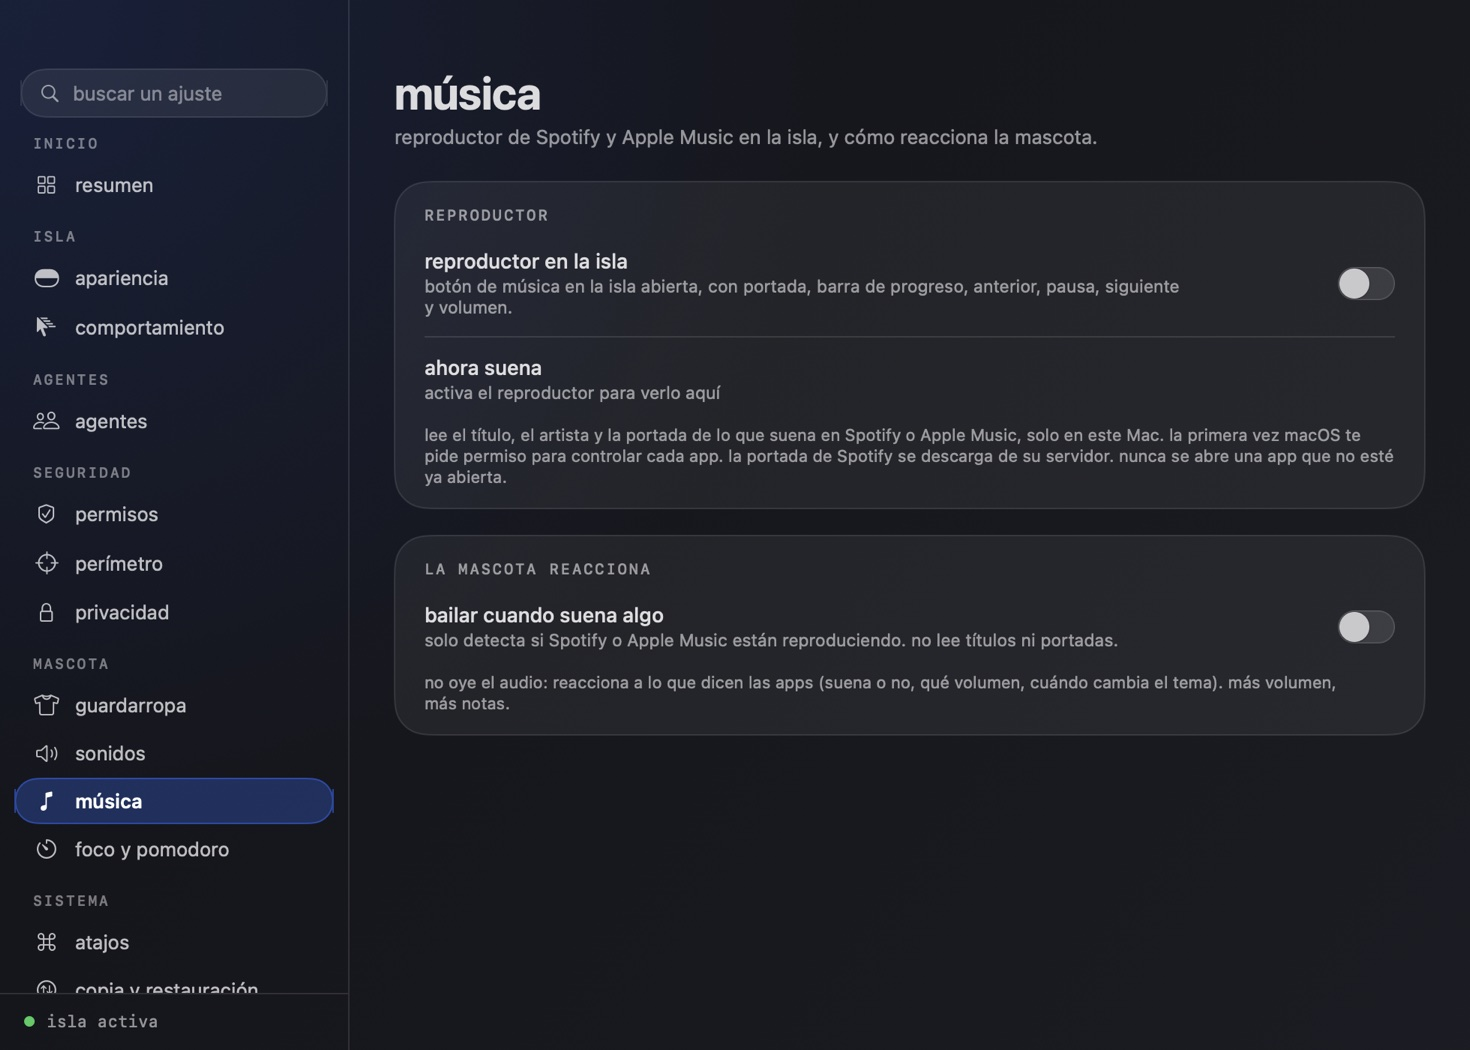
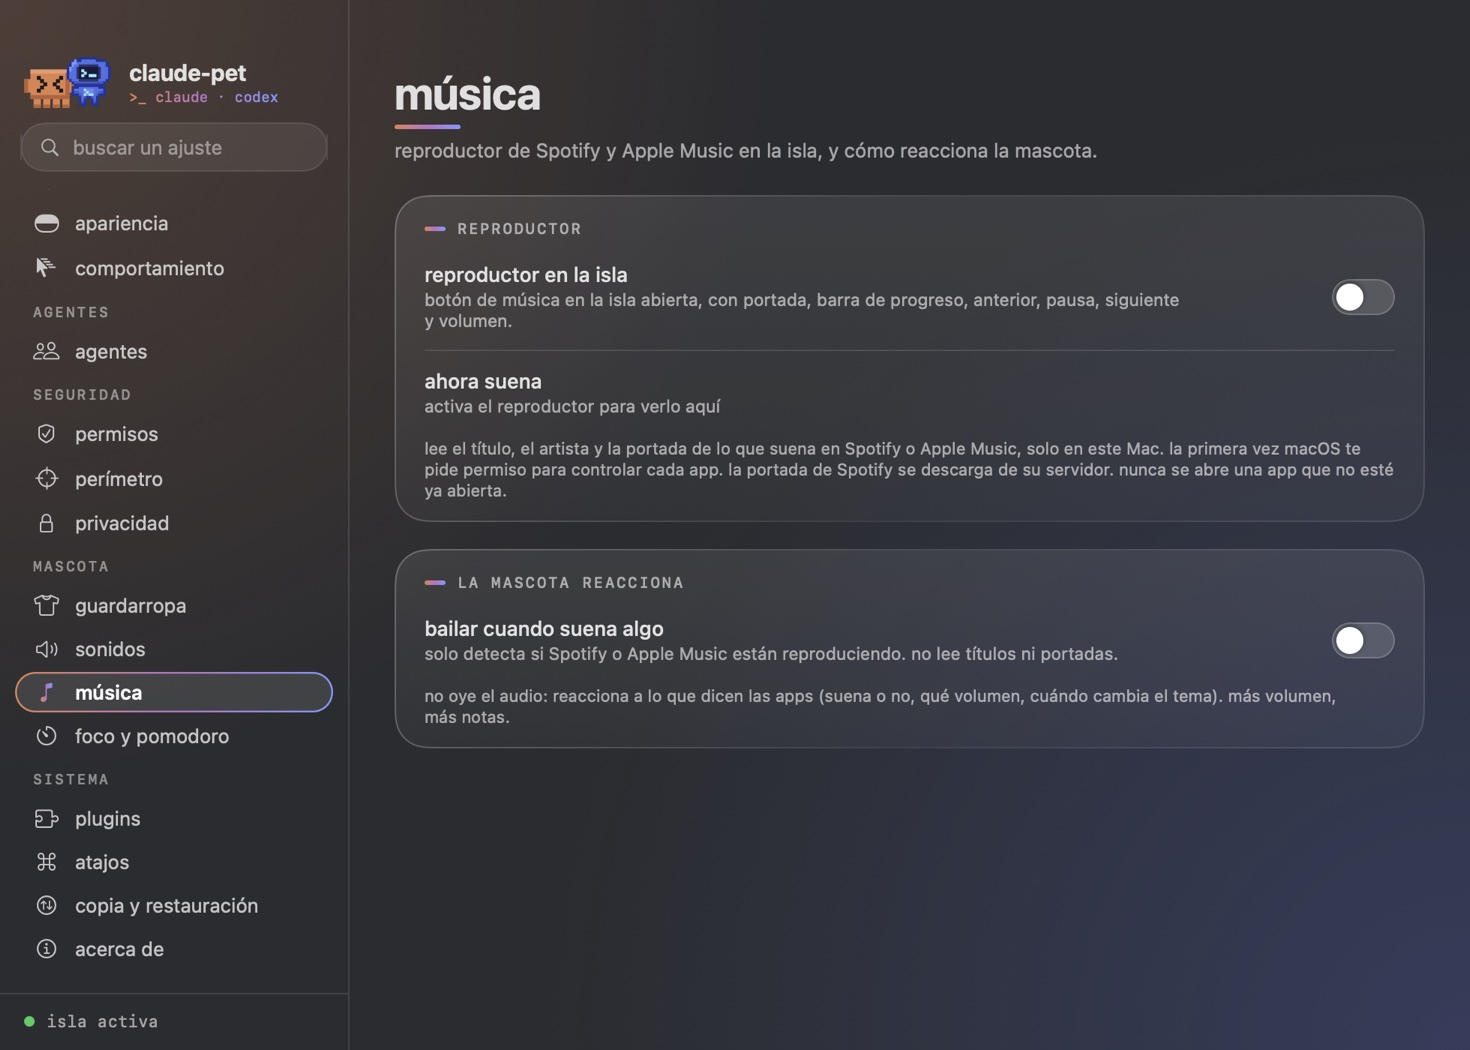
docs: plugins, identidad de ajustes, portadas indexadas y version 2.1.0

diff --git a/Sources/ClaudePet/SettingsView.swift b/Sources/ClaudePet/SettingsView.swift
@@ -64,8 +64,9 @@ struct SettingsView: View {
             .overlay(Capsule().stroke(SettingsTheme.line, lineWidth: 1))
             .padding(.horizontal, 14).padding(.bottom, 12)
 
+            ScrollViewReader { proxy in
             ScrollView {
-                VStack(alignment: .leading, spacing: 14) {
+                VStack(alignment: .leading, spacing: 10) {
                     ForEach(SettingsGroup.allCases) { group in
                         let pages = results.filter { $0.group == group }
                         if !pages.isEmpty {
@@ -82,6 +83,9 @@ struct SettingsView: View {
                     }
                 }
                 .padding(.horizontal, 10).padding(.bottom, 16)
+            }
+            .onAppear { proxy.scrollTo(page, anchor: .center) }
+            .onChange(of: page) { p in withAnimation(.easeOut(duration: 0.2)) { proxy.scrollTo(p, anchor: .center) } }
             }
             statusFooter
         }
@@ -102,7 +106,7 @@ struct SettingsView: View {
             }
             Spacer(minLength: 0)
         }
-        .padding(.horizontal, 16).padding(.top, 40).padding(.bottom, 14)
+        .padding(.horizontal, 16).padding(.top, 38).padding(.bottom, 10)
     }
 
     private func sidebarRow(_ p: SettingsPage) -> some View {
@@ -114,13 +118,14 @@ struct SettingsView: View {
                 Text(p.title).font(.system(size: 13, weight: selected ? .semibold : .regular))
                 Spacer()
             }
-            .padding(.horizontal, 12).padding(.vertical, 7)
+            .padding(.horizontal, 12).padding(.vertical, 5.5)
             .foregroundStyle(selected ? Color.white : Color.white.opacity(0.72))
             .background(Capsule().fill(selected ? Color.white.opacity(0.1) : .clear))
             .overlay(Capsule().strokeBorder(selected ? AnyShapeStyle(SettingsTheme.duoDiagonal) : AnyShapeStyle(Color.clear), lineWidth: 1.2))
             .contentShape(Capsule())
         }
         .buttonStyle(.plain)
+        .id(p)
     }
 
     private var statusFooter: some View {
@@ -179,6 +184,13 @@ enum SettingsSnapshot {
     @MainActor static func render(to directory: String, pages: [SettingsPage] = SettingsPage.allCases) {
         try? FileManager.default.createDirectory(atPath: directory, withIntermediateDirectories: true)
         for page in pages {
+            if page == .plugins, let examples = ProcessInfo.processInfo.environment["CLAUDE_PET_SNAPSHOT_EXAMPLES"] {
+                // captura de documentacion: los ejemplos del repositorio instalados y activos, en una carpeta temporal
+                let tmp = URL(fileURLWithPath: NSTemporaryDirectory()).appendingPathComponent("snap-plugins-\(UUID().uuidString)")
+                let reg = PluginRegistry(root: tmp, statePath: nil)
+                for n in ((try? FileManager.default.contentsOfDirectory(atPath: examples)) ?? []).sorted() { _ = try? reg.install(from: URL(fileURLWithPath: examples).appendingPathComponent(n)); reg.setEnabled(n, n != "registro-de-sesiones", approving: true) }
+                PetStore.shared.plugins = PluginHost(registry: reg)
+            }
             if page == .perimetro, PerimetroPage.previewWorkspace == nil {
                 let sample = "/Users/demo/mi-app"
                 PerimetroPage.previewWorkspace = sample

diff --git a/Sources/ClaudePet/ClaudePetApp.swift b/Sources/ClaudePet/ClaudePetApp.swift
@@ -550,7 +550,7 @@ final class AppController: NSObject, NSApplicationDelegate {
     func showSettings(page: SettingsPage? = nil) {
         let fresh = settingsWindow?.contentView is NSHostingView<SettingsView> == false
         if settingsWindow == nil {
-            let w = NSWindow(contentRect: NSRect(x: 0, y: 0, width: 1020, height: 720),
+            let w = NSWindow(contentRect: NSRect(x: 0, y: 0, width: 1020, height: 760),
                              styleMask: [.titled, .closable, .miniaturizable, .resizable, .fullSizeContentView], backing: .buffered, defer: false)
             w.title = "ajustes de claude-pet"
             w.titlebarAppearsTransparent = true

diff --git a/README.md b/README.md
@@ -51,13 +51,25 @@ alternativa a las mascotas flotantes: un menu `modo` elige entre flotante e isla
 
 ![ajustes](docs/img/ajustes-resumen.jpg)
 
-Menú de la barra → "ajustes…" (⌘,), o `ClaudePet --open-settings [página]`. Catorce páginas con buscador:
+Menú de la barra → "ajustes…" (⌘,), o `ClaudePet --open-settings [página]`. Quince páginas con buscador y vidrio real del sistema; el naranja de Claude y el azul de Codex tiñen toda la ventana:
 
 - **vista previa de la isla** que se mueve al cambiar ubicación, zona de activación, contenido compacto o reloj.
 - **sonidos**: volumen general y por categoría, prueba de cada sonido y detección de los que has reemplazado con tus propios archivos.
 - **atajos configurables**: eliges la letra de cada acción; si ya está en uso te lo dice y no cambia nada.
 - **copia y restauración**: exporta los ajustes a un `.json`, impórtalos en otro Mac (cada valor se valida por tipo y rango) o restablece todo.
 - permisos, reglas de aprobación y puntos de restauración, agentes, privacidad, guardarropa, foco y pomodoro. detalle en [docs/AJUSTES.md](docs/AJUSTES.md).
+
+### plugins
+
+![plugins](docs/img/ajustes-plugins.jpg)
+
+Carpetas con un `plugin.json` que añaden acciones al menú y a la isla, ajustes propios y reaccionan a eventos. Los crea cualquiera: puede ser un script de shell de cinco líneas. El usuario aprueba los permisos antes de activarlos, los ejecutables no pueden salirse de su carpeta y reciben un entorno mínimo. Aviso honesto: no son una caja de arena, corren con tus mismos privilegios. [commitero](https://github.com/kisnner26/commitero) ya funciona como plugin (`examples/plugins/`). Guía en [docs/PLUGINS.md](docs/PLUGINS.md).
+
+### guardarropa
+
+![atuendos](docs/img/atuendos.jpg)
+
+Los seis atuendos se ven igual en Claude y en las tres variantes de Codex, en la isla y en el modo flotante, con vista previa en ajustes.
 
 ### perímetro
 
@@ -69,11 +81,11 @@ Defines por dónde puede moverse el agente en un proyecto (carpetas permitidas y
 
 ![reproductor](docs/img/reproductor.jpg)
 
-Reproductor de Spotify y Apple Music en la isla (portada, progreso, anterior, pausa, siguiente y volumen). La mascota se pone auriculares, baila y suelta notas según el volumen, con un destello al cambiar de tema. No oye el audio: reacciona a lo que dicen las apps. Opt-in. Detalle en [docs/MUSICA.md](docs/MUSICA.md).
+Reproductor de Spotify y Apple Music en la isla (portada indexada en caché, progreso, anterior, pausa, siguiente y volumen) y una tira de recientes para volver a ponerlas. La mascota se pone auriculares, baila y suelta notas según el volumen, con un destello al cambiar de tema. No oye el audio: reacciona a lo que dicen las apps. Opt-in. Detalle en [docs/MUSICA.md](docs/MUSICA.md).
 
 ### menú de la barra
 
-Ahora es corto: estado en vivo, cuatro acciones y cuatro submenús (proyecto, mascotas, web scout, más), más ajustes y salir. Todo lo que era una opción suelta vive en la ventana de ajustes.
+Ahora es corto: estado en vivo, cuatro acciones y cuatro submenús (proyecto, mascotas, web scout, más), más los plugins que tengas, ajustes y salir. Todo lo que era una opción suelta vive en la ventana de ajustes.
 
 ### versiones
 

diff --git a/CHANGELOG.md b/CHANGELOG.md
@@ -2,6 +2,25 @@
 
 Formato basado en [Keep a Changelog](https://keepachangelog.com/es-ES/1.1.0/). Las versiones anteriores a la 2.0 se etiquetaron a posteriori sobre los commits donde cada hito quedó completo.
 
+## [2.1.0] - 2026-10-27
+
+### añadido
+- **plugins**: carpetas con un `plugin.json` que añaden acciones al menú y a la isla, ajustes propios y reaccionan a eventos (sesión terminada, permisos, canción nueva). Permisos aprobados por el usuario antes de activar, ejecutables que no pueden salirse de su carpeta, entorno mínimo sin tus variables, plazo de 15 s y 64 KB de salida. Incluye tres ejemplos, entre ellos commitero. Ver `docs/PLUGINS.md`.
+- **identidad de Claude y Codex** en ajustes: vidrio real del sistema con el dúo naranja del bloque de Claude y azul de la nube de Codex, las dos mascotas en la barra lateral y una tarjeta por agente con previsualización de sus aspectos. Interruptores, deslizadores y segmentos propios de cristal.
+- **portadas indexadas**: caché en disco (192 px, hasta 80 archivos y 24 MB) para que salgan al instante, historial de recientes con repetición y portada de respaldo con la inicial de la canción.
+- el guardarropa en **Codex**: los seis atuendos también para su avatar, y en el modo flotante.
+- `tests/plugins.sh`, `--selftest-plugins`, `--selftest-plugin-examples`, `--snapshot-outfits`.
+
+### cambiado
+- AppleScript de la música corre en una cola propia, de una consulta en una, con `with timeout of 3 seconds`: si Spotify o Music no responden, la app no se cuelga.
+- al cerrar la ventana de ajustes se libera su contenido, así una ventana oculta no se redibuja cuando cambia algo.
+- los skins de las mascotas pasan de apariencia a la tarjeta de cada agente.
+- la barra lateral de ajustes se desplaza sola hasta la página activa.
+
+### corregido
+- los atuendos solo se veían en Claude, en la isla y con el aspecto bloque; ahora se aplican en ambas mascotas y en los dos modos.
+- un plugin cuya carpeta no coincide con su `id` podía tapar a otro; ahora se registra siempre con el nombre de su carpeta.
+
 ## [2.0.0] - 2026-10-27
 
 ### añadido
@@ -66,6 +85,7 @@ Formato basado en [Keep a Changelog](https://keepachangelog.com/es-ES/1.1.0/). L
 ### añadido
 - primera versión: una mascota pixel-art en la barra de menú que refleja el estado de Claude Code.
 
+[2.1.0]: https://github.com/kisnner26/claude-pet/compare/v2.0.0...v2.1.0
 [2.0.0]: https://github.com/kisnner26/claude-pet/compare/v1.2.0...v2.0.0
 [1.2.0]: https://github.com/kisnner26/claude-pet/compare/v1.1.0...v1.2.0
 [1.1.0]: https://github.com/kisnner26/claude-pet/compare/v1.0.0...v1.1.0

diff --git a/docs/AJUSTES.md b/docs/AJUSTES.md
@@ -11,17 +11,28 @@ La barra lateral agrupa las páginas en inicio, isla, agentes, seguridad, mascot
 | resumen | sesiones, herramientas, permisos y errores de hoy; nivel, racha y semana; copiar o guardar como imagen; acceso a mission control y relevo |
 | apariencia | modo, ubicación, contenido compacto, reloj, pantalla, mascotas, animaciones, partido, burbuja y avisos visuales, con vista previa |
 | comportamiento | ancho y retraso de la zona de activación, cuánto tarda en plegarse, aparición automática y fijar mascotas |
-| agentes | mostrar u ocultar claude y codex, gestos, detalle local, aviso de bloqueo y verificación de enlaces |
+| agentes | una tarjeta por agente con su estado, mostrar u ocultar, aspecto con previsualización, gestos, detalle local y aviso de bloqueo |
 | permisos | responder desde la isla, bloqueo si el proyecto cambia, puntos de restauración y reglas de aprobación (revocar una o todas) |
 | perímetro | por dónde puede moverse el agente en cada proyecto: carpetas permitidas, archivos protegidos y avisar o bloquear. ver [PERIMETRO.md](PERIMETRO.md) |
 | privacidad | nombre del proyecto al compartir, carpeta de datos, registro de decisiones y borrado de estadísticas |
-| guardarropa | atuendos por nivel y atuendos de temporada |
+| guardarropa | vista previa de las dos mascotas, atuendos por nivel con su aspecto en Claude y Codex, y atuendos de temporada |
 | sonidos | volumen general y por categoría, prueba de cada sonido y sonidos propios |
 | música | reproductor de Spotify y Apple Music en la isla y reacciones de la mascota. ver [MUSICA.md](MUSICA.md) |
 | foco y pomodoro | foco manual o por horario y control del pomodoro |
 | atajos | letra de cada atajo global, con control de duplicados |
+| plugins | instalar, activar con permisos aprobados, ajustes y acciones de cada plugin. ver [PLUGINS.md](PLUGINS.md) |
 | copia y restauración | exportar, importar y restablecer ajustes |
 | acerca de | versión, commitero y dónde vive cada dato |
+
+## identidad
+
+Claude y Codex comparten la rejilla pixel-art y el glifo `>_`; el color los separa. La ventana usa vidrio real del sistema y el dúo naranja (el bloque de Claude) → violeta → azul (la nube de Codex). Las dos mascotas van en la barra lateral, vestidas como las tengas, y cada agente tiene su tarjeta teñida de su color.
+
+![resumen](img/ajustes-resumen.jpg)
+
+![agentes](img/ajustes-agentes.jpg)
+
+![guardarropa](img/ajustes-guardarropa.jpg)
 
 ![apariencia](img/ajustes-apariencia.jpg)
 

diff --git a/docs/MUSICA.md b/docs/MUSICA.md
@@ -6,6 +6,18 @@ Un reproductor de Spotify y Apple Music en la isla, y una mascota que reacciona 
 
 Se activa en Ajustes → música. En la isla abierta aparece un botón de nota junto al selector de agente; al pulsarlo, el panel de actividad deja paso al reproductor: portada, título y artista, barra de progreso que se arrastra para saltar, anterior, pausa, siguiente y volumen. También hay un submenú de música en el menú de la barra.
 
+## portadas
+
+La portada sale de Spotify (su CDN) o de Apple Music (del propio reproductor) y se guarda en `~/Library/Caches/claude-pet/covers` a 192 px, en JPEG, hasta 80 archivos y 24 MB (se borra lo más antiguo). La próxima vez que suene esa canción aparece al instante, sin red. Mientras no hay portada se dibuja una propia: degradado estable por título con su inicial.
+
+En Ajustes → música, **recientes** muestra las últimas canciones con su portada; al pulsar una se vuelve a poner (la app debe estar abierta). El historial vive en `~/.claude-pet/music-index.json` (60 canciones, permisos 0600) y se puede borrar con sus portadas desde el mismo sitio.
+
+![recientes](img/ajustes-musica.jpg)
+
+## fluidez
+
+Las consultas a Spotify y Music van por AppleScript en una cola propia, de una en una, y cada orden lleva `with timeout of 3 seconds`. Si una app no responde, el script falla a los tres segundos y la interfaz sigue fluida; no se encadenan consultas si la anterior no ha vuelto.
+
 ## cómo reacciona la mascota
 
 No oye el audio. Reacciona a lo que dicen las apps, que es lo que se puede saber sin pedir permisos de captura:
